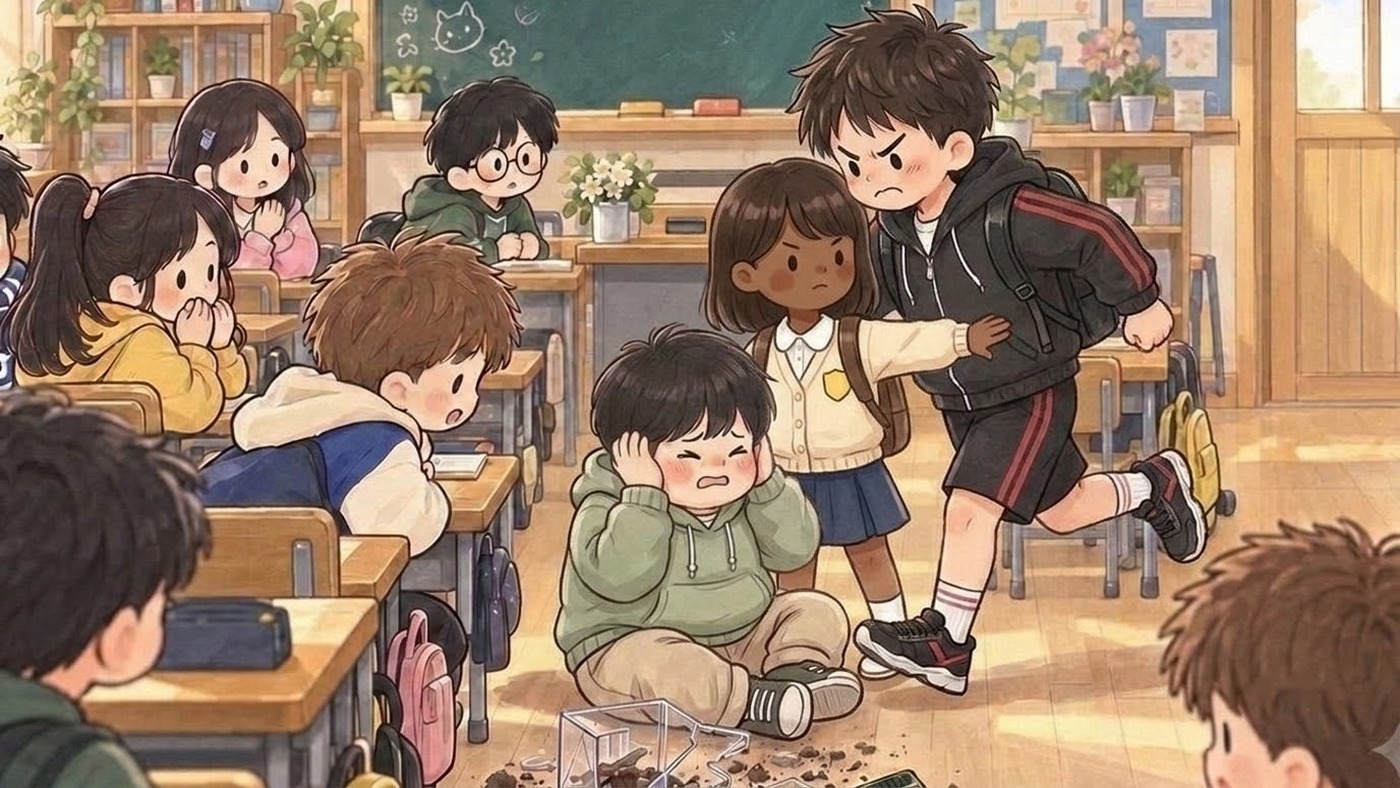
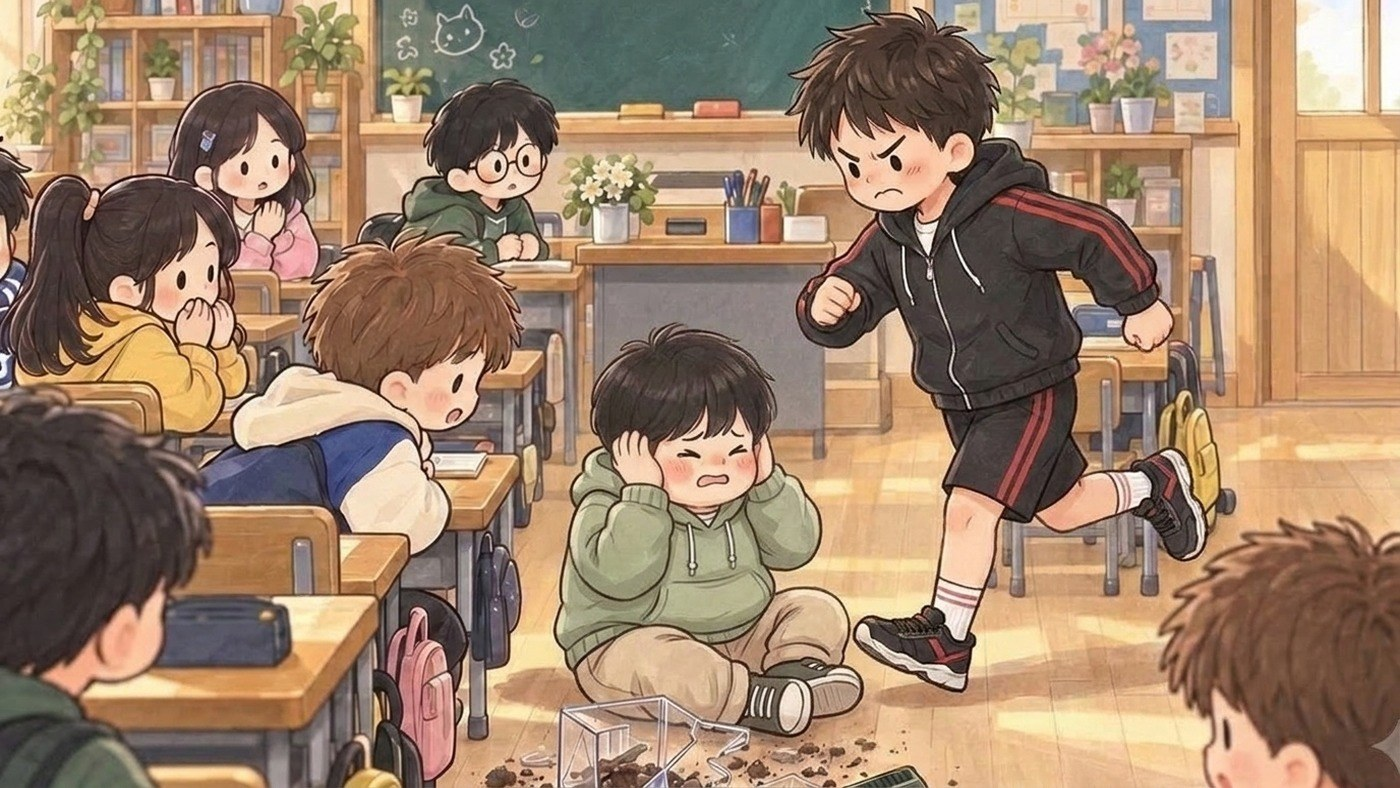
첫날 사고 그림(jar) 원래 그림으로 되돌림: 수아를 그려 넣은 수정본은 첫날 수아가 나오기 전에 보여 맞지 않음(검수 목록이 수아 회상 대사만 보고 잘못 요청)

diff --git a/index.html b/index.html
@@ -119,14 +119,14 @@ body,button{word-break:keep-all;overflow-wrap:break-word}
 <div id="fader"></div>
 <script>
 // same address, newest version: if the page this phone has kept is older than the one online, fetch the new one and reopen
-const BUILD='1108230945';
+const BUILD='1108231131';
 try{fetch(location.pathname,{cache:'no-store'}).then(r=>r.text()).then(t=>{const m=t.match(/const BUILD='(\d+)'/);if(m&&m[1]!==BUILD&&sessionStorage.getItem('upd')!==m[1]){sessionStorage.setItem('upd',m[1]);fetch(location.pathname,{cache:'reload'}).then(()=>location.reload())}}).catch(()=>{})}catch(e){}
 </script>
-<script src="i18n.js?v=1108230945"></script>
-<script src="i18n_prologue_v2.js?v=1108230945"></script>
-<script src="day2/i18n_engine.js?v=1108230945"></script>
-<script src="day2/data.js?v=1108230945"></script>
-<script src="day3/data.js?v=1108230945"></script>
+<script src="i18n.js?v=1108231131"></script>
+<script src="i18n_prologue_v2.js?v=1108231131"></script>
+<script src="day2/i18n_engine.js?v=1108231131"></script>
+<script src="day2/data.js?v=1108231131"></script>
+<script src="day3/data.js?v=1108231131"></script>
 <script>
 // ---------- data ----------
 const MW=1672,MH=941,KID=180;
@@ -569,36 +569,36 @@ function pickHero(){const m=document.getElementById('modal'),c=document.getEleme
  c.innerHTML=`<h2>${tr('전학생 반장되기')}</h2><p>${tr('한국말이 아직 서툰 전학생,<br>반장 선거에 나가다.')}</p><p style="margin-top:14px">${tr('누구로 할까요?')}</p>${(()=>{const s=loadSave();return s&&s.day>=2&&s.mode===UI+'-'+LANG?`<p><button class="big" id="cont">${tr('{n}일차부터 이어 하기').replace('{n}',s.day)}</button></p>`:''})()}<div class="pick heroes"><button data-h="hero_f"><img src="faces/hero_f_smile.jpg" alt="여자 주인공">${heroName(1)}</button><button data-h="hero_m"><img src="faces/hero_m_smile.jpg" alt="남자 주인공">${heroName(0)}</button></div>`;
  m.classList.add('on');{const cb=document.getElementById('cont');if(cb)cb.onclick=()=>{const s=loadSave();HERO=s.hero;Object.assign(HEART,s.heart||{});(s.found||[]).forEach(k=>FOUND.add(k));HEART_D1={...HEART};chime();(typeof contGame==='function'?contGame(s):startDay(Math.min(s.day,Object.keys(window.D3||{}).length?3:2)))}}c.querySelectorAll('.pick button').forEach(b=>b.onclick=()=>{HERO=b.dataset.h;m.classList.remove('on');chime();bgm('day');load('home_am');say([['nar','','이사 온 다음 날 아침. 아직 풀지 못한 상자들이 쌓여 있다.'],['think','sad','(오늘부터 새 학교야. 여기 말도 아직 서툰데…….)'],['think','smile','({m}한테 인사하고 학교 가야지.)']],morning)})}
 </script>
-<script src="day2/engine.js?v=1108230945"></script>
-<script src="day2/ep_minho.js?v=1108230945"></script>
-<script src="day2/meet.js?v=1108230945"></script>
-<script src="day2/ep_sua.js?v=1108230945"></script>
-<script src="day2/ep_hangyeol.js?v=1108230945"></script>
-<script src="day2/ep_siwoo.js?v=1108230945"></script>
-<script src="day2/ep_haram.js?v=1108230945"></script>
-<script src="day2/ep_jiho.js?v=1108230945"></script>
-<script src="day2/ep_hyeeun.js?v=1108230945"></script>
-<script src="day2/ep_haneul.js?v=1108230945"></script>
-<script src="day2/ep_junho.js?v=1108230945"></script>
-<script src="day2/ep_yuna.js?v=1108230945"></script>
-<script src="day2/ep_yena.js?v=1108230945"></script>
-<script src="day2/ep_haeun.js?v=1108230945"></script>
-<script src="day2/ep_youngmin.js?v=1108230945"></script>
-<script src="day2/ep_seah.js?v=1108230945"></script>
-<script src="day2/ep_jihoon.js?v=1108230945"></script>
-<script src="words_ja_ru.js?v=1108230945"></script>
-<script src="day2/mybag.js?v=1108230945"></script>
-<script src="day2/wordpics.js?v=1108230945"></script>
-<script src="day2/spots.js?v=1108230945"></script>
-<script src="day2/textfit.js?v=1108230945"></script>
-<script src="day2/tester.js?v=1108230945"></script>
-<script src="day2/ux.js?v=1108230945"></script>
-<script src="day2/tapword.js?v=1108230945"></script>
-<script src="day2/review.js?v=1108230945"></script>
-<script src="day2/plane.js?v=1108230945"></script>
-<script src="day2/bubble.js?v=1108230945"></script>
-<script src="day2/ep_ending.js?v=1108230945"></script>
-<script src="day2/ending.js?v=1108230945"></script>
+<script src="day2/engine.js?v=1108231131"></script>
+<script src="day2/ep_minho.js?v=1108231131"></script>
+<script src="day2/meet.js?v=1108231131"></script>
+<script src="day2/ep_sua.js?v=1108231131"></script>
+<script src="day2/ep_hangyeol.js?v=1108231131"></script>
+<script src="day2/ep_siwoo.js?v=1108231131"></script>
+<script src="day2/ep_haram.js?v=1108231131"></script>
+<script src="day2/ep_jiho.js?v=1108231131"></script>
+<script src="day2/ep_hyeeun.js?v=1108231131"></script>
+<script src="day2/ep_haneul.js?v=1108231131"></script>
+<script src="day2/ep_junho.js?v=1108231131"></script>
+<script src="day2/ep_yuna.js?v=1108231131"></script>
+<script src="day2/ep_yena.js?v=1108231131"></script>
+<script src="day2/ep_haeun.js?v=1108231131"></script>
+<script src="day2/ep_youngmin.js?v=1108231131"></script>
+<script src="day2/ep_seah.js?v=1108231131"></script>
+<script src="day2/ep_jihoon.js?v=1108231131"></script>
+<script src="words_ja_ru.js?v=1108231131"></script>
+<script src="day2/mybag.js?v=1108231131"></script>
+<script src="day2/wordpics.js?v=1108231131"></script>
+<script src="day2/spots.js?v=1108231131"></script>
+<script src="day2/textfit.js?v=1108231131"></script>
+<script src="day2/tester.js?v=1108231131"></script>
+<script src="day2/ux.js?v=1108231131"></script>
+<script src="day2/tapword.js?v=1108231131"></script>
+<script src="day2/review.js?v=1108231131"></script>
+<script src="day2/plane.js?v=1108231131"></script>
+<script src="day2/bubble.js?v=1108231131"></script>
+<script src="day2/ep_ending.js?v=1108231131"></script>
+<script src="day2/ending.js?v=1108231131"></script>
 <script>
 // the goal shows big for a few seconds, then folds into a small pill (tap it to open it again)
 {const g=document.getElementById('goal');let t=null;const big=()=>{g.classList.remove('mini');clearTimeout(t);t=setTimeout(()=>g.classList.add('mini'),4000)};
